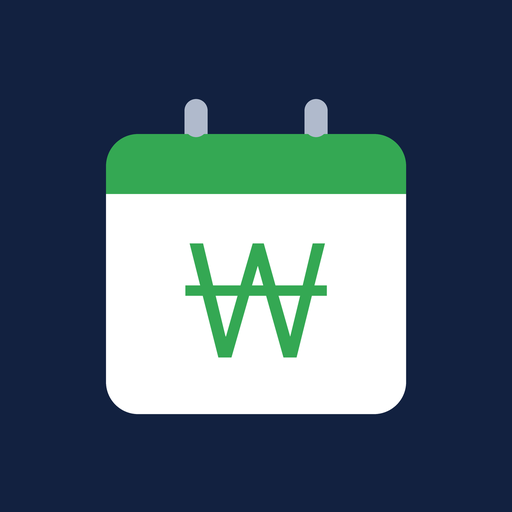
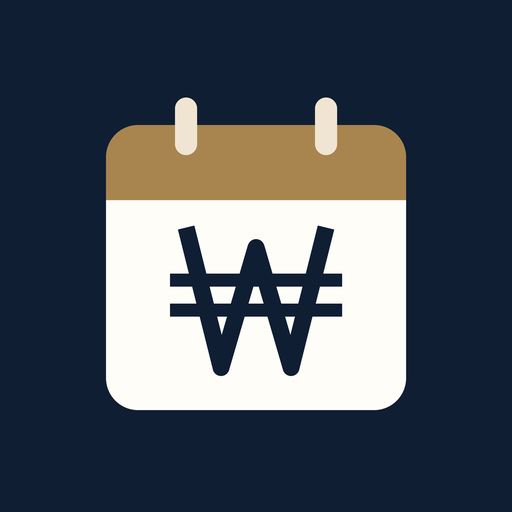
design(v2): 남색·골드 아이콘(런처 5종·스토어 512)·피처그래픽·스토어 스크린샷 5장(1080×1920) 교체

diff --git a/app/tool/screenshot_test.dart b/app/tool/screenshot_test.dart
@@ -2,6 +2,7 @@
 // 디자인 확인용 화면 렌더 (회귀 테스트 아님 — test/ 밖, 수동 실행):
 //   flutter test tool/screenshot_test.dart --update-goldens
 // 실제 내장 글꼴과 Material 아이콘을 불러와 1080×2340 PNG 로 tool/goldens/ 에 저장한다.
+// 스토어용(세로 ≤ 가로×2): --dart-define=SHOT_H=1920 → tool/goldens/store/
 import 'dart:io';
 
 import 'package:flutter/material.dart';
@@ -69,9 +70,12 @@ List<Override> _overrides() => [
     ];
 
 void _phone(WidgetTester t) {
-  t.view.physicalSize = const Size(1080, 2340);
+  t.view.physicalSize = const Size(1080, _shotH);
   t.view.devicePixelRatio = 2.625;
 }
+
+const double _shotH = int.fromEnvironment('SHOT_H', defaultValue: 2340) + 0.0;
+const String _dir = _shotH == 2340 ? 'goldens/' : 'goldens/store/';
 
 void main() {
   setUpAll(_loadFonts);
@@ -82,16 +86,16 @@ void main() {
         {kDisclaimerAcceptedKey: true, kQuickStartDoneKey: true});
     await t.pumpWidget(ProviderScope(overrides: _overrides(), child: const RetirePaycheckApp()));
     await t.pumpAndSettle();
-    await expectLater(find.byType(MaterialApp), matchesGoldenFile('goldens/1_this_month.png'));
+    await expectLater(find.byType(MaterialApp), matchesGoldenFile('${_dir}1_this_month.png'));
     await t.tap(find.byIcon(Icons.timeline_outlined));
     await t.pumpAndSettle();
-    await expectLater(find.byType(MaterialApp), matchesGoldenFile('goldens/2_plan.png'));
+    await expectLater(find.byType(MaterialApp), matchesGoldenFile('${_dir}2_plan.png'));
     await t.tap(find.byIcon(Icons.notifications_none_outlined));
     await t.pumpAndSettle();
-    await expectLater(find.byType(MaterialApp), matchesGoldenFile('goldens/3_alerts.png'));
+    await expectLater(find.byType(MaterialApp), matchesGoldenFile('${_dir}3_alerts.png'));
     await t.tap(find.byIcon(Icons.account_balance_wallet_outlined));
     await t.pumpAndSettle();
-    await expectLater(find.byType(MaterialApp), matchesGoldenFile('goldens/4_assets.png'));
+    await expectLater(find.byType(MaterialApp), matchesGoldenFile('${_dir}4_assets.png'));
   });
 
   testWidgets('quick start', (t) async {
@@ -100,6 +104,6 @@ void main() {
     await t.pumpWidget(const ProviderScope(child: RetirePaycheckApp()));
     await t.pumpAndSettle();
     expect(find.byType(QuickStartScreen), findsOneWidget);
-    await expectLater(find.byType(MaterialApp), matchesGoldenFile('goldens/0_quick_start.png'));
+    await expectLater(find.byType(MaterialApp), matchesGoldenFile('${_dir}0_quick_start.png'));
   });
 }
